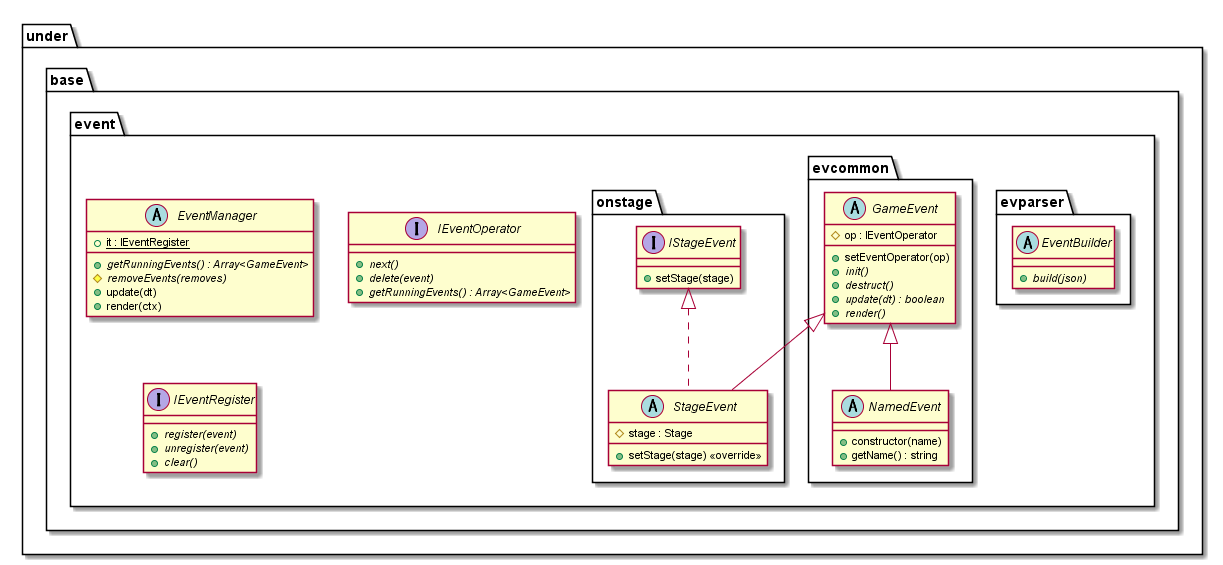
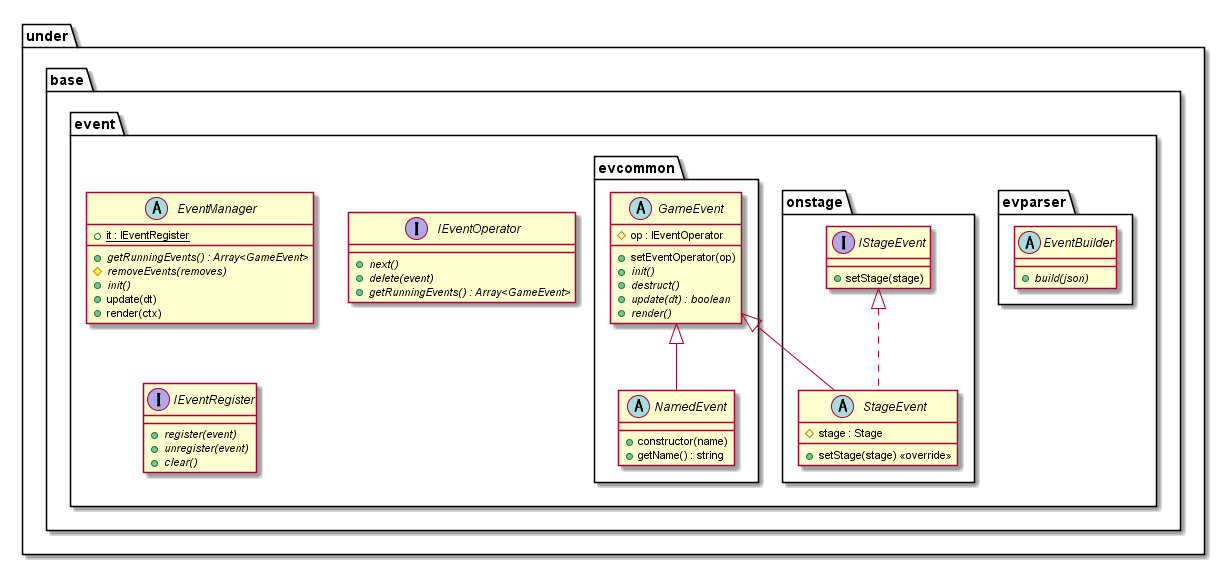
Add event manager with background

diff --git a/src/res/js/under/extend/event/WithBackgroundEventManager.js b/src/res/js/under/extend/event/WithBackgroundEventManager.js
@@ -1,0 +1,57 @@
+/**
+ * With background event manager
+ * - Manages update and rendering event
+ * - Controls event
+ * - Registers event
+ * - Uses the queue to manage events
+ * - ### Render background
+ * @extends {QueueEventManager}
+ * @classdesc With background event manager to render background
+ */
+class WithBackgroundEventManager extends QueueEventManager { // eslint-disable-line  no-unused-vars
+    /**
+     * With background event manager constructor
+     * @constructor
+     * @param {GameImage} backImage Background image
+     */
+    constructor(backImage) {
+        super();
+
+        /**
+         * Background image
+         * @protected
+         * @type {GameImage}
+         */
+        this.backImage = backImage;
+    }
+
+    /**
+     * Initialize event manager
+     * @abstract
+     */
+    init() {
+        this.backImage.init();
+    }
+
+    /**
+     * Update event manager
+     * @override
+     * @param {number} dt Delta time
+     */
+    update(dt) {
+        super.update(dt);
+        this.backImage.update(dt);
+    }
+
+    /**
+     * Render scene
+     * @override
+     * @param {Context} ctx Canvas context
+     */
+    render(ctx) {
+        if (this.runningEvents.length > 0) {
+            this.backImage.render(ctx, 0, 0);
+        }
+        super.render(ctx);
+    }
+}

diff --git a/src/res/js/use/Editor.js b/src/res/js/use/Editor.js
@@ -206,6 +206,11 @@
     }
 }, 1);}
 {const id = setInterval(function() {
+    if (typeof QueueEventManager !== `undefined`) {
+        clearInterval(id); const script = document.createElement('script'); script.src='src/res/js/under/extend/event/WithBackgroundEventManager.js'; document.head.appendChild(script);
+    }
+}, 1);}
+{const id = setInterval(function() {
     if (typeof Input !== `undefined`) {
         clearInterval(id); const script = document.createElement('script'); script.src='src/res/js/under/extend/input/AllInput.js'; document.head.appendChild(script);
     }
@@ -1527,6 +1532,7 @@
         typeof WaitKeyEvent !== `undefined` &&
         typeof SimpleEventBuilder !== `undefined` &&
         typeof QueueEventManager !== `undefined` &&
+        typeof WithBackgroundEventManager !== `undefined` &&
         typeof AllInput !== `undefined` &&
         typeof StateInputManager !== `undefined` &&
         typeof CachedArrayManager !== `undefined` &&

diff --git a/src/res/js/use/Game.js b/src/res/js/use/Game.js
@@ -168,6 +168,11 @@
     }
 }, 1);}
 {const id = setInterval(function() {
+    if (typeof QueueEventManager !== `undefined`) {
+        clearInterval(id); const script = document.createElement('script'); script.src='src/res/js/under/extend/event/WithBackgroundEventManager.js'; document.head.appendChild(script);
+    }
+}, 1);}
+{const id = setInterval(function() {
     if (typeof Input !== `undefined`) {
         clearInterval(id); const script = document.createElement('script'); script.src='src/res/js/under/extend/input/AllInput.js'; document.head.appendChild(script);
     }
@@ -1324,6 +1329,7 @@
         typeof WaitKeyEvent !== `undefined` &&
         typeof SimpleEventBuilder !== `undefined` &&
         typeof QueueEventManager !== `undefined` &&
+        typeof WithBackgroundEventManager !== `undefined` &&
         typeof AllInput !== `undefined` &&
         typeof StateInputManager !== `undefined` &&
         typeof CachedArrayManager !== `undefined` &&

diff --git a/src/res/js/game/scene/GameScene.js b/src/res/js/game/scene/GameScene.js
@@ -73,7 +73,13 @@ class GameScene extends BaseLayeredScene { // eslint-disable-line  no-unused-var
         this.stageManager.setStageSize(GameScreen.it.width, GameScreen.it.height);
         this.stageManager.pushStage(`map1`);
 
-        this.eventManager = new QueueEventManager();
+        const eventImage = new SingleAnimation(true);
+        const id = ResourceManager.image.load(`event/eventBack.png`);
+        for (let i = 0; i < 4; ++i) {
+            eventImage.addAnimation(new TileImage(id, GameScreen.it.width, GameScreen.it.height, i * 100, 0, 100, 75), 250);
+        }
+        this.eventManager = new WithBackgroundEventManager(eventImage);
+        this.eventManager.init();
 
         // initialize stage
         this.initStage();

diff --git a/src/res/js/use/UnderEngine.js b/src/res/js/use/UnderEngine.js
@@ -168,6 +168,11 @@
     }
 }, 1);}
 {const id = setInterval(function() {
+    if (typeof QueueEventManager !== `undefined`) {
+        clearInterval(id); const script = document.createElement('script'); script.src='src/res/js/under/extend/event/WithBackgroundEventManager.js'; document.head.appendChild(script);
+    }
+}, 1);}
+{const id = setInterval(function() {
     if (typeof Input !== `undefined`) {
         clearInterval(id); const script = document.createElement('script'); script.src='src/res/js/under/extend/input/AllInput.js'; document.head.appendChild(script);
     }

diff --git a/src/res/js/under/base/event/EventManager.js b/src/res/js/under/base/event/EventManager.js
@@ -32,7 +32,13 @@ class EventManager { // eslint-disable-line  no-unused-vars
     removeEvents(removes) {}
 
     /**
-     * Update scene
+     * Initialize event manager
+     * @abstract
+     */
+    init() {}
+
+    /**
+     * Update event manager
      * @override
      * @param {number} dt Delta time
      */
@@ -47,7 +53,7 @@ class EventManager { // eslint-disable-line  no-unused-vars
     }
 
     /**
-     * Render scene
+     * Render event manager
      * @override
      * @param {Context} ctx Canvas context
      */
